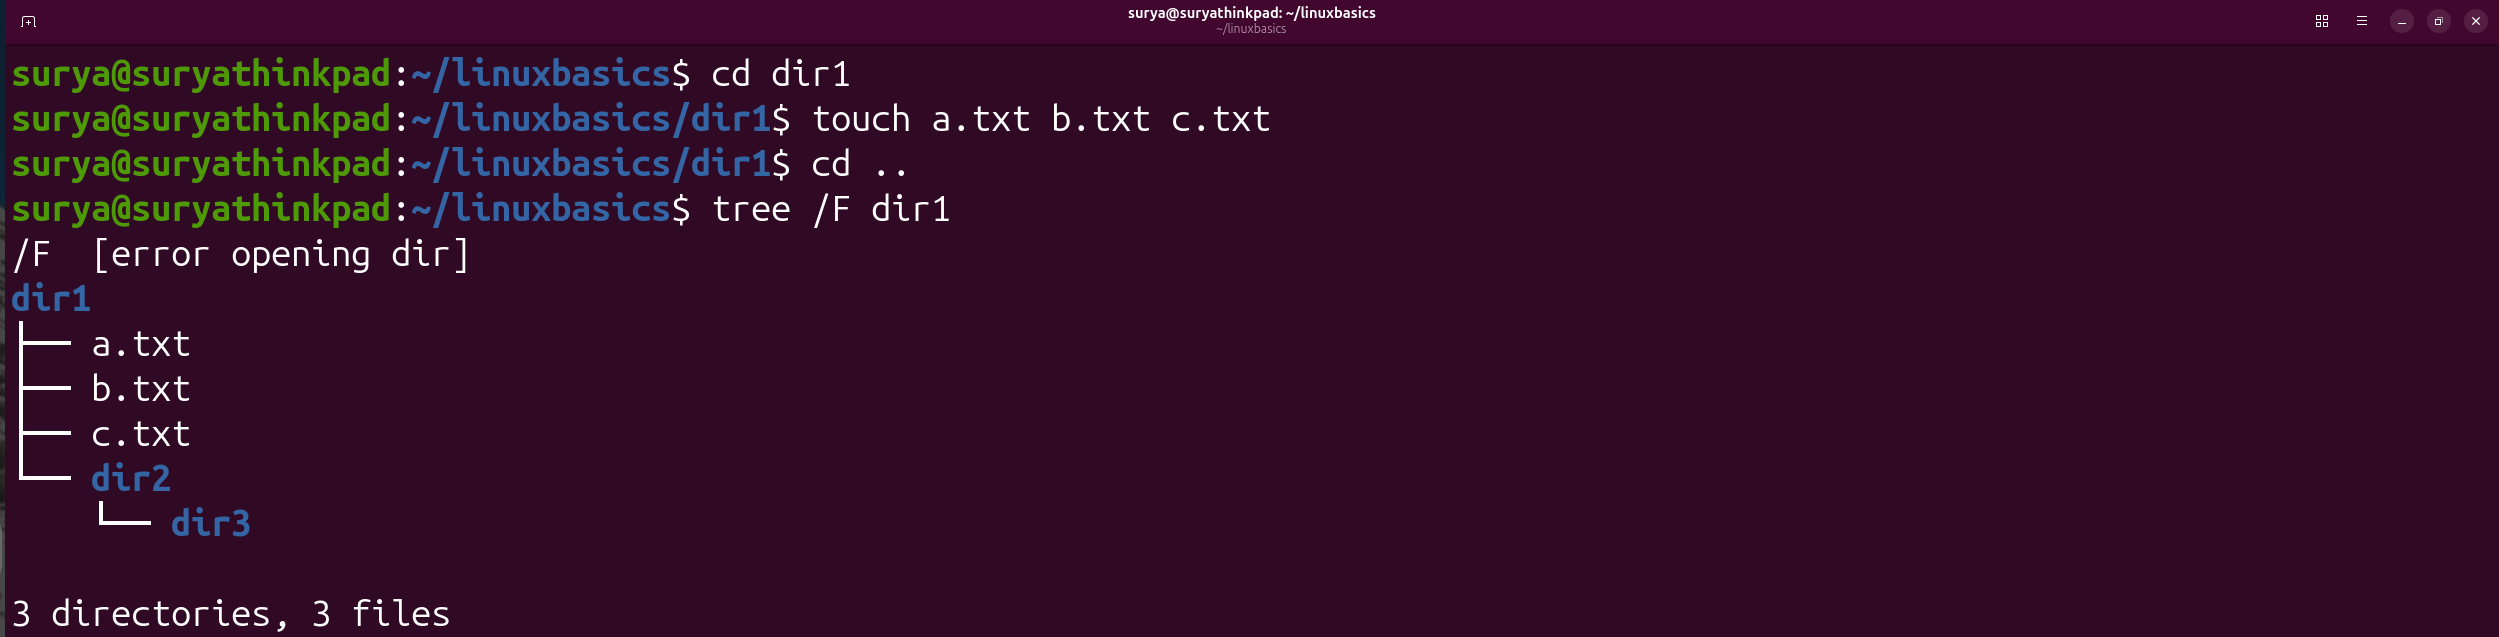
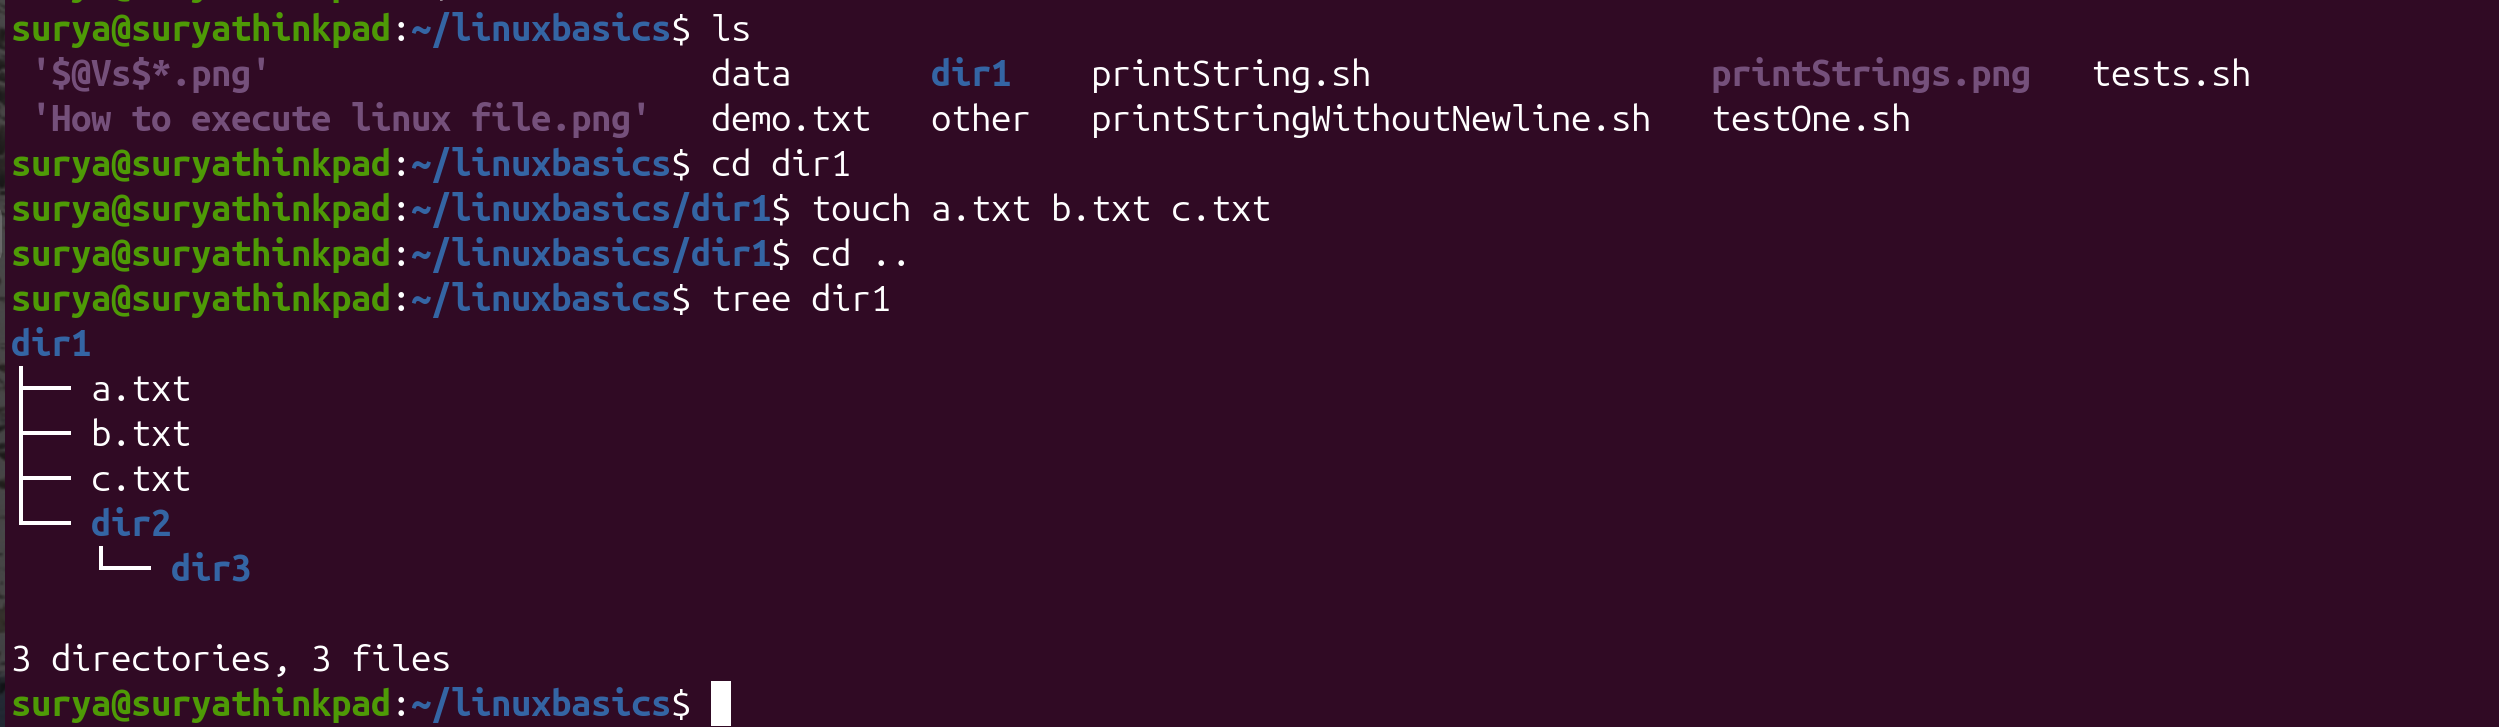
updated changes

diff --git a/docs/topics/creationOfDirectories.md b/docs/topics/creationOfDirectories.md
@@ -198,6 +198,21 @@ flowchart TB
     classDef darkGrey fill:#5c5c5c,stroke:#3d3d3d,color:#ffffff,stroke-width:2px
     class H,S,K1,K2,K3,M,F darkGrey
 ```
+I will be taking panchanga srvanam and masam it will be like this 
+
+1. Ruthuvu (Seasons) in main list 
+2. Inside each season masam (month) will be there (this one we can do only for shell scripting) skipping this for time being
+3. For month all thithis(days) will be there 
+
+mkdir -p Ruthuvulu/{Vasantha,Greeshma,Varsha,Shard,Hemantha,Shishira}/{Ekadashi,Dwadashi,Trayodashi,Chaturdashi,Purnima,Amavasya}
+
+![Creating a file in the /tmp folder](../assets/seasonsTreePart1.png)
+
+![Creating a file in the /tmp folder](../assets/seasonsTreePart2.png)
+
+![Creating a file in the /tmp folder](../assets/seasonsTreePart3.png)
+
+
 
 ---
 
